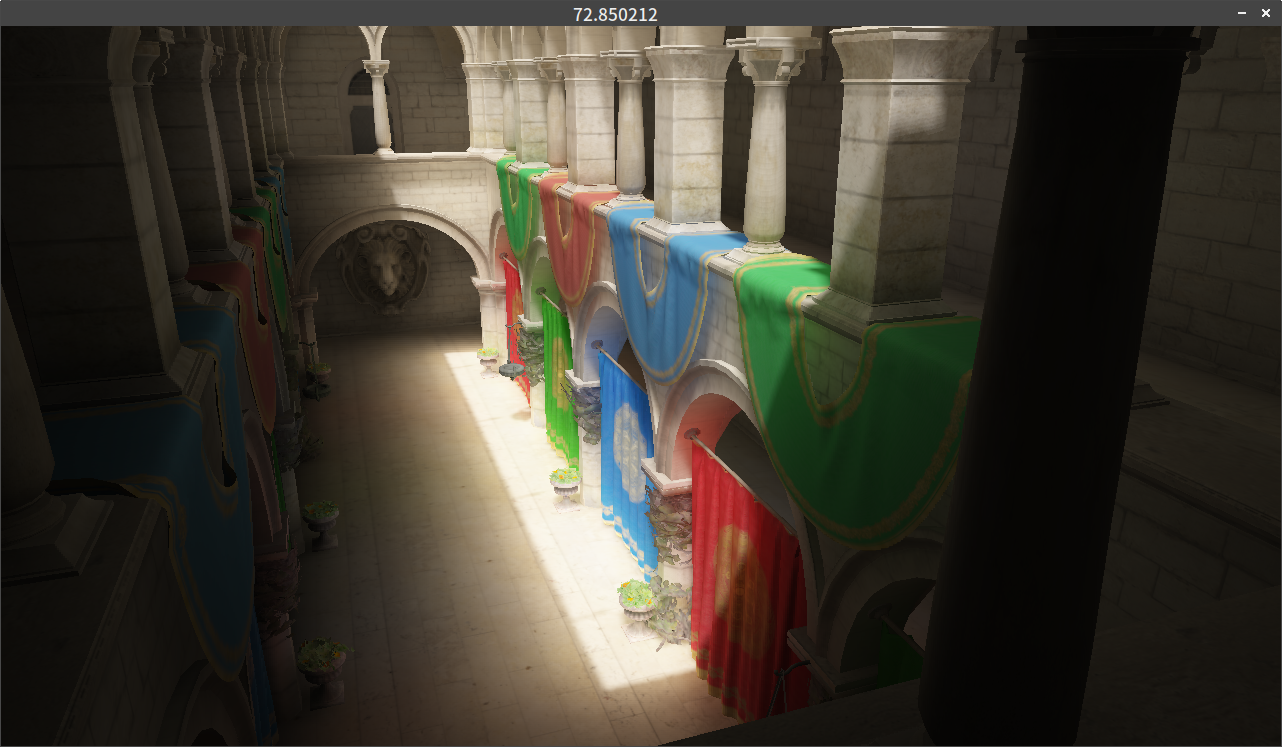
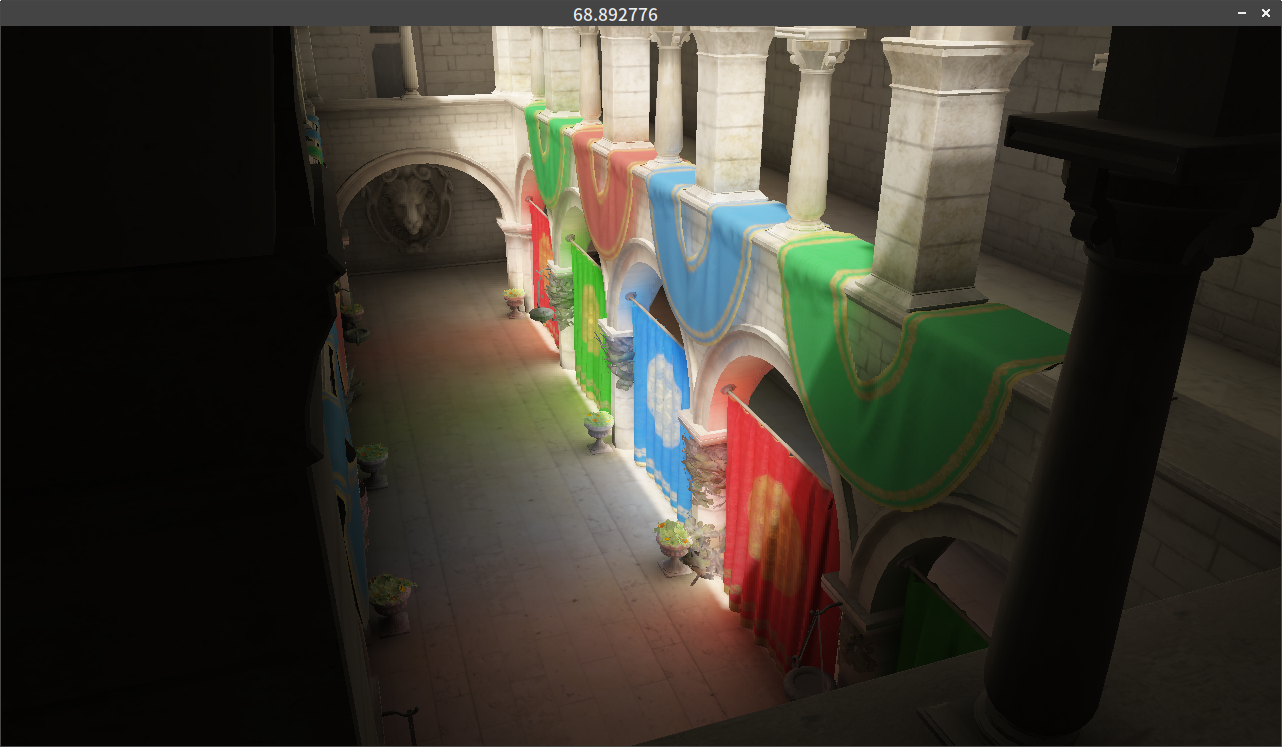
Update screenshots

diff --git a/Voxels.cpp b/Voxels.cpp
@@ -123,7 +123,7 @@ void Voxels::Bounce()
 
 	bounce_shader_.Use();
 
-	glBindImageTexture(0, radiance_texture_.Get(), 0, GL_TRUE, 0, GL_WRITE_ONLY, GL_RGBA16);
+	glBindImageTexture(0, radiance_texture_.Get(), 0, GL_TRUE, 0, GL_READ_WRITE, GL_RGBA16);
 	albedo_texture_.Bind(0);
 	normal_texture_.Bind(1);
 	for(GLuint f = 0; f < 6; ++f) mipmaps_[f].Bind(f + 2);
